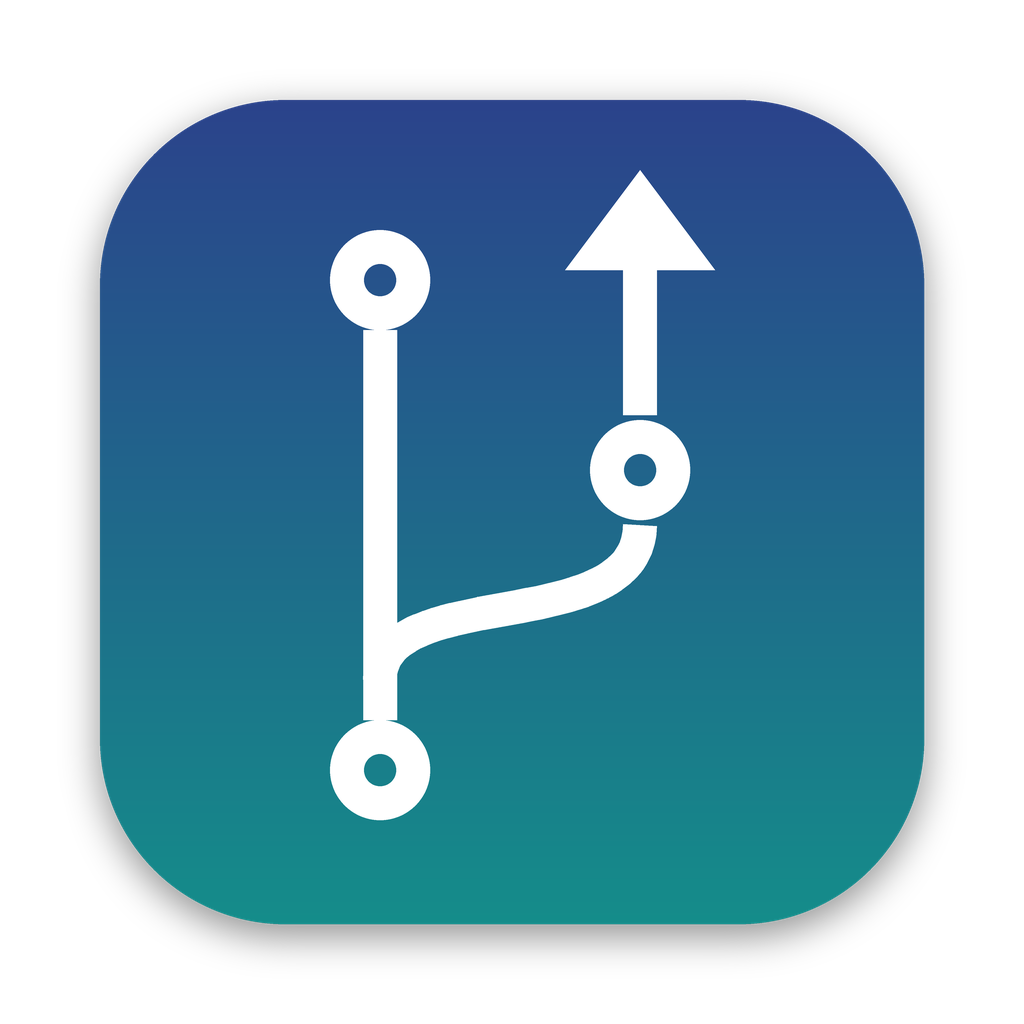
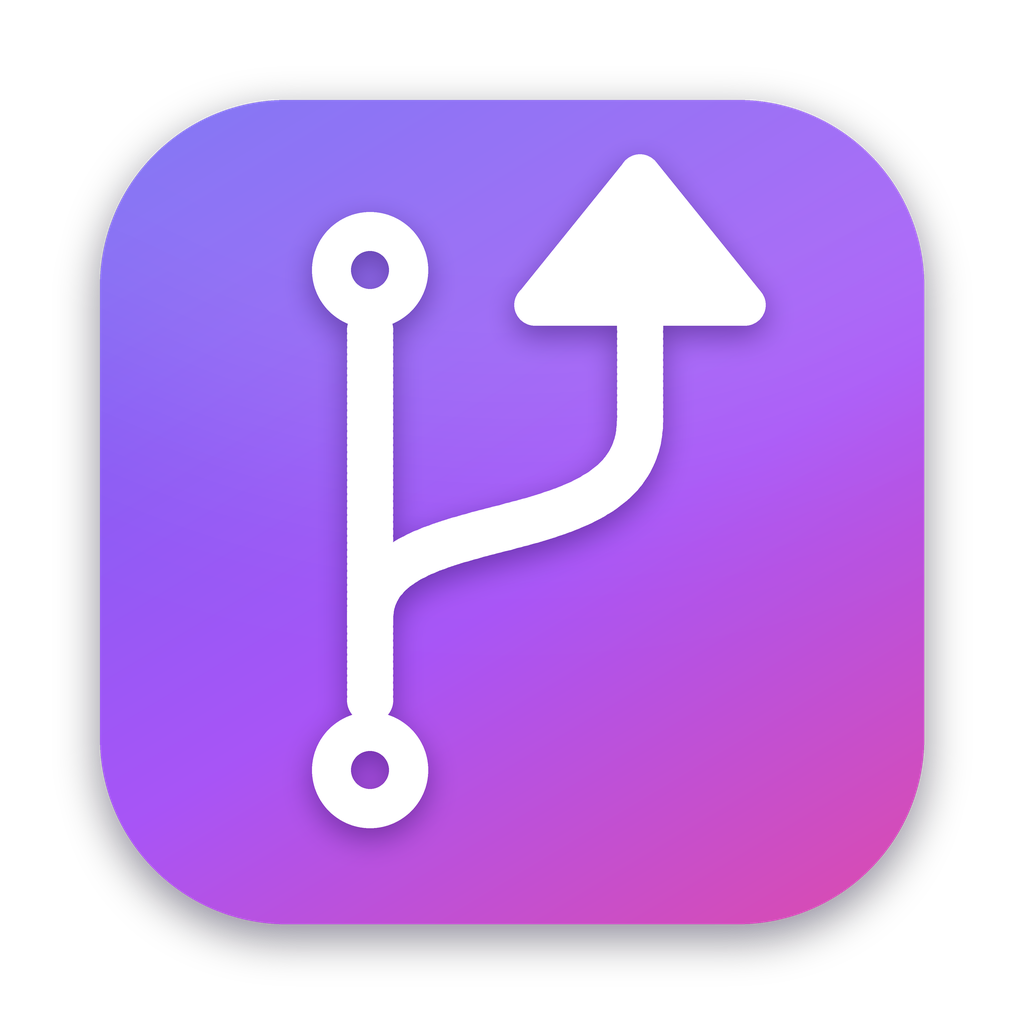
Initial commit via GitPublish

diff --git a/templates/dashboard.html b/templates/dashboard.html
@@ -4,6 +4,7 @@
 <meta charset="utf-8">
 <meta name="viewport" content="width=device-width, initial-scale=1">
 <title>GitPublish</title>
[1 lines of base64/hex data omitted]
 <style>
   :root{
     --bg:#0d1117; --panel:#161b22; --line:#30363d; --ink:#e6edf3; --dim:#8b949e;
@@ -16,6 +17,7 @@
   header{display:flex;align-items:center;justify-content:space-between;gap:16px;margin-bottom:18px}
   h1{font-size:22px;margin:0;display:flex;align-items:center;gap:10px}
   h1 .g{color:var(--green)}
+  h1 .logo{width:30px;height:30px;border-radius:7px;display:block}
   .status{font-size:13px;color:var(--dim)}
   .status b{color:var(--ink)}
   .card{background:var(--panel);border:1px solid var(--line);border-radius:10px;padding:16px;margin-bottom:16px}
@@ -77,7 +79,7 @@
 <body>
 <div class="wrap">
   <header>
-    <h1>⬆ Git<span class="g">Publish</span></h1>
[1 lines of base64/hex data omitted]
     <div class="status" id="status">checking…</div>
   </header>
   <div class="lead">Publish any project folder to GitHub, and flip private repos to public. Your token stays on this machine.</div>
